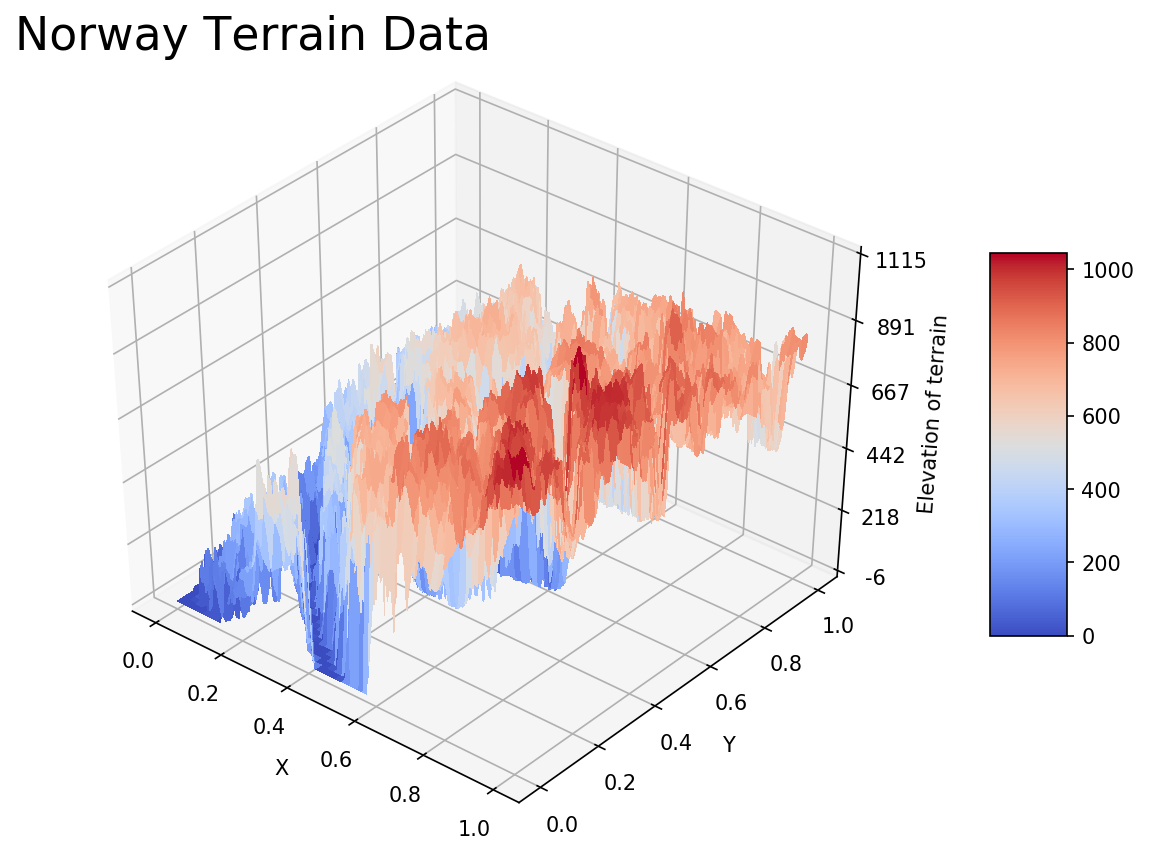
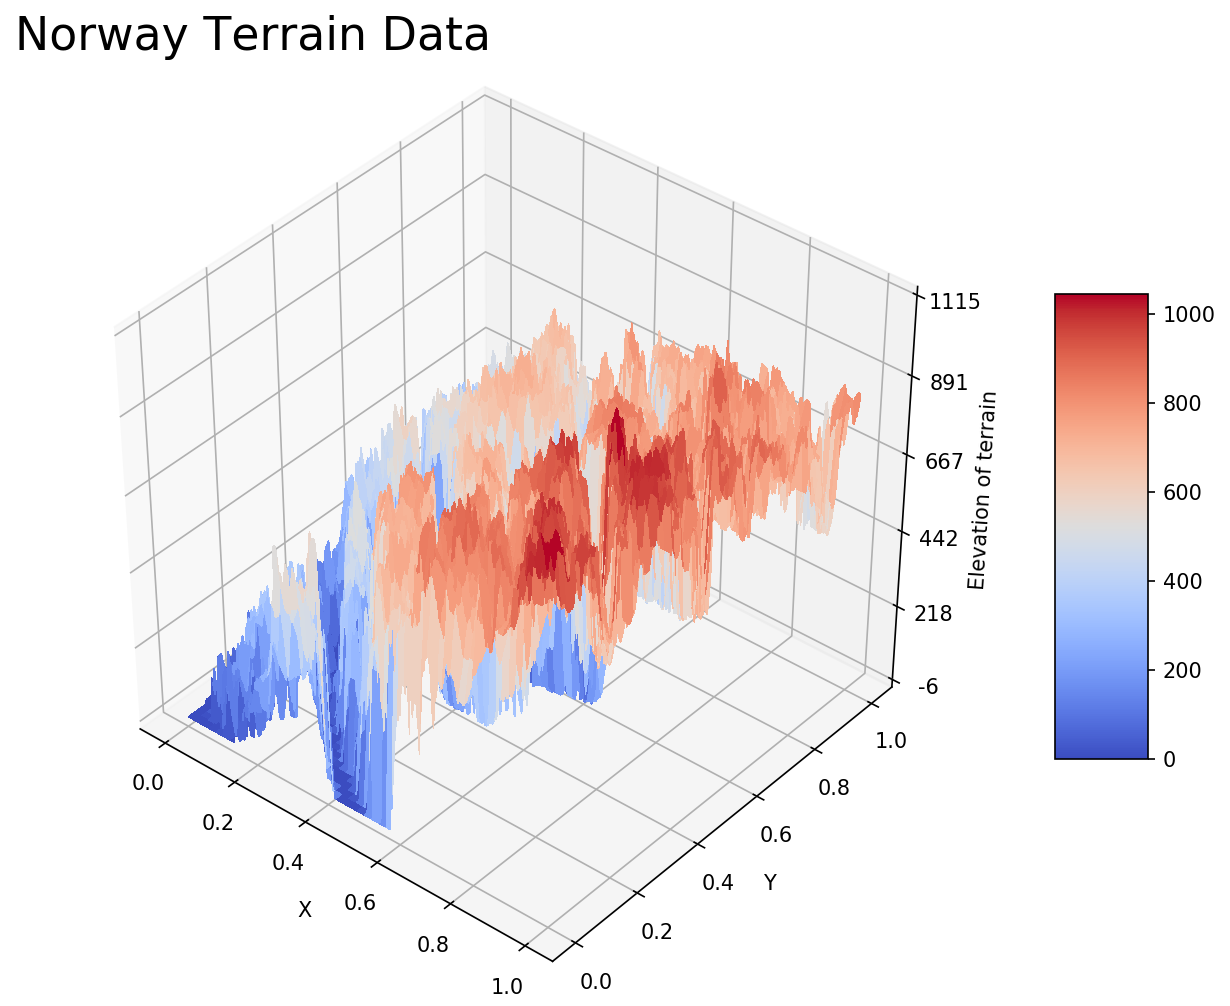
Working on terrain

diff --git a/Project1/g)AnalysisOfTerrain.py b/Project1/g)AnalysisOfTerrain.py
@@ -1,0 +1,167 @@
+import numpy as np
+from random import random, seed
+import matplotlib.pyplot as plt
+
+from RegLib.HelperFunctions import plot_3d_graph
+from PROJECT_SETUP import TERRAIN_PATH, SAVE_FIG, SEED
+from RegLib.SamplingMethod import SamplingMethod
+from RegLib.RegressionMethod import RegressionType
+from RegLib.BootstrapSampling import BootstrapSampling
+from RegLib.CrossValidationKFold import CrossValidationKFold
+from RegLib.HelperFunctions import mupltiple_line_plot, plot_bias_variance_analysis, create_terrain_data, create_X, plot_values_with_info, progressBar
+
+np.random.seed(SEED)
+
+# g) OLS, Ridge and Lasso regression with resampling 
+
+#region Alpha values for Lasso and Ridge
+
+# N = 100
+# p = 7
+
+# alphas = [0.0, 0.000001, 0.00001, 0.0001, 0.001, 0.01, 0.1, 1.0, 10.0, 100.0, 1000.0]
+# l = len(alphas)
+
+# trials = 1000
+# sample_count = N
+
+# kfolds = 5
+
+# x, y, z = create_terrain_data(N, TERRAIN_PATH)
+# perm_index = np.random.permutation(len(z))
+
+# mse_boot = np.zeros(l); mse_kfold = np.zeros(l); mse_boot_train = np.zeros(l); mse_kfold_train = np.zeros(l); 
+# bias_boot = np.zeros(l); var_boot = np.zeros(l)
+
+# for i in range(len(alphas)):
+#     progressBar(i + 1, l)
+#     X = create_X(x, y, p, debug = False)
+
+#     crossval = CrossValidationKFold(kfolds).train_and_test(X, z, perm_index = perm_index, model_type = RegressionType.Lasso, alpha = alphas[i])
+#     boot = BootstrapSampling(trials, sample_count).train_and_test(X, z, perm_index = perm_index, model_type = RegressionType.Lasso, alpha = alphas[i])
+
+#     mse_kfold[i] = crossval.mse
+#     mse_kfold_train[i] = crossval.mse_train
+#     mse_boot[i] = boot.mse
+#     mse_boot_train[i] = boot.mse_train
+#     bias_boot[i] = boot.bias
+#     var_boot[i] = boot.var
+
+# values_to_plot = {
+#     "Bootstrap Test": mse_boot,
+#     "Cross-validation Test": mse_kfold,
+#     "Bootstrap Train": mse_boot_train,
+#     "Cross-validation Train": mse_kfold_train,
+# }
+
+# info_to_add = {
+#     "N: ": N,
+#     "Trials: ": trials,
+#     "Kfolds: ": kfolds, 
+#     "Regression": " Lasso",
+# }
+
+# plot_values_with_info(alphas, values_to_plot, title = "g)TerrainLassoAlphaBootVsCross", xlabel = "λ values", ylabel = "Prediction Error", info_to_add = info_to_add, xscale = "log", save_fig=SAVE_FIG)
+
+
+#endregion
+
+#region Bias-variance trade-off
+
+N = 100
+p = 10
+trials = 10000
+sample_count = N
+kfolds = 5
+alpha = 10
+x, y, z = create_terrain_data(N, TERRAIN_PATH)
+perm_index = np.random.permutation(len(z))
+
+polydegree = np.zeros(p); r2_boot = np.zeros(p); mse_boot = np.zeros(p); bias_boot = np.zeros(p); var_boot = np.zeros(p)
+r2_crossval = np.zeros(p); mse_crossval = np.zeros(p); bias_crossval = np.zeros(p); var_crossval = np.zeros(p)
+
+r2_boot_ridge = np.zeros(p); mse_boot_ridge = np.zeros(p); bias_boot_ridge = np.zeros(p); var_boot_ridge = np.zeros(p)
+r2_crossval_ridge = np.zeros(p); mse_crossval_ridge = np.zeros(p); bias_crossval_ridge = np.zeros(p); var_crossval_ridge = np.zeros(p)
+
+r2_boot_lasso = np.zeros(p); mse_boot_lasso = np.zeros(p); bias_boot_lasso = np.zeros(p); var_boot_lasso = np.zeros(p)
+r2_crossval_lasso = np.zeros(p); mse_crossval_lasso = np.zeros(p); bias_crossval_lasso = np.zeros(p); var_crossval_lasso = np.zeros(p)
+
+for degree in range(p):
+    progressBar(degree + 1, p)
+
+    polydegree[degree] = degree + 1
+
+    X = create_X(x, y, degree, debug = False)
+    boot = BootstrapSampling(trials, sample_count).train_and_test(X, z, perm_index = perm_index, model_type = RegressionType.OLS)
+    crossval = CrossValidationKFold(kfolds).train_and_test(X, z, perm_index = perm_index, model_type = RegressionType.OLS)
+
+    boot_ridge = BootstrapSampling(trials, sample_count).train_and_test(X, z, perm_index = perm_index, model_type = RegressionType.Ridge, alpha=alpha)
+    crossval_ridge = CrossValidationKFold(kfolds).train_and_test(X, z, perm_index = perm_index, model_type = RegressionType.Ridge, alpha=alpha)
+
+    boot_lasso = BootstrapSampling(trials, sample_count).train_and_test(X, z, perm_index = perm_index, model_type = RegressionType.Lasso, alpha=alpha)
+    crossval_lasso = CrossValidationKFold(kfolds).train_and_test(X, z, perm_index = perm_index, model_type = RegressionType.Lasso, alpha=alpha)
+
+    r2_boot[degree] = boot.r2; mse_boot[degree] = boot.mse; bias_boot[degree] = boot.bias; var_boot[degree] = boot.var; 
+    r2_crossval[degree] = crossval.r2; mse_crossval[degree] = crossval.mse; bias_crossval[degree] = crossval.bias; var_crossval[degree] = crossval.var; 
+
+    r2_boot_ridge[degree] = boot_ridge.r2; mse_boot_ridge[degree] = boot_ridge.mse; bias_boot_ridge[degree] = boot_ridge.bias; var_boot_ridge[degree] = boot_ridge.var; 
+    r2_crossval_ridge[degree] = crossval_ridge.r2; mse_crossval_ridge[degree] = crossval_ridge.mse; bias_crossval_ridge[degree] = crossval_ridge.bias; var_crossval_ridge[degree] = crossval_ridge.var; 
+
+    r2_boot_lasso[degree] = boot_lasso.r2; mse_boot_lasso[degree] = boot_lasso.mse; bias_boot_lasso[degree] = boot_lasso.bias; var_boot_lasso[degree] = boot_lasso.var; 
+    r2_crossval_lasso[degree] = crossval_lasso.r2; mse_crossval_lasso[degree] = crossval_lasso.mse; bias_crossval_lasso[degree] = crossval_lasso.bias; var_crossval_lasso[degree] = crossval_lasso.var; 
+
+
+values_to_plot_boot = {
+    "Variance": var_boot,
+    "MSE": mse_boot,
+    "Bias^2": bias_boot,
+}
+
+values_to_plot_crossval = {
+    "Variance": var_crossval,
+    "MSE": mse_crossval,
+    "Bias^2": bias_crossval,
+}
+
+values_to_plot_boot_ridge = {
+    "Variance": var_boot_ridge,
+    "MSE": mse_boot_ridge,
+    "Bias^2": bias_boot_ridge,
+}
+
+values_to_plot_crossval_ridge = {
+    "Variance": var_crossval_ridge,
+    "MSE": mse_crossval_ridge,
+    "Bias^2": bias_crossval_ridge,
+}
+
+values_to_plot_boot_lasso = {
+    "Variance": var_boot_lasso,
+    "MSE": mse_boot_lasso,
+    "Bias^2": bias_boot_lasso,
+}
+
+values_to_plot_crossval_lasso = {
+    "Variance": var_crossval_lasso,
+    "MSE": mse_crossval_lasso,
+    "Bias^2": bias_crossval_lasso,
+}
+
+info_to_add = {
+    "N: ": N,
+    "Trials: ": trials,
+    "Kfolds: ": kfolds,
+    "Alpha: ": alpha,
+}
+
+values_to_plot = [values_to_plot_boot, values_to_plot_crossval, values_to_plot_boot_ridge, values_to_plot_crossval_ridge, values_to_plot_boot_lasso, values_to_plot_crossval_lasso]
+plot_labels = ["OLS Bootstrap", "OLS Cross Validation", "Ridge Bootstrap", "Ridge Cross Validation", "Lasso Bootstrap", "Lasso Cross Validation"]
+ylim = [0, 10000]
+
+mupltiple_line_plot(polydegree, values_to_plot, plot_labels, "Terrain Bias Variance Analysis", info_to_add = info_to_add, xlabel = "Polynomial degree", ylabel = "Prediction Error", ylim = ylim, xscale = "linear", save_fig = SAVE_FIG)
+#plot_bias_variance_analysis(polydegree, values_to_plot, title = "g)TerrainBiasVarTradeoffOLS", info_to_add = info_to_add, save_fig = SAVE_FIG)
+
+#plot_values_with_info(polydegree, values_to_plot, title = "TestTrainErrorBootstrap", xlabel = "Polynomial Degree", ylabel = "Prediction Error", info_to_add = info_to_add, save_fig=False)
+
+
+# #endregion

diff --git a/Project1/RegLib/HelperFunctions.py b/Project1/RegLib/HelperFunctions.py
@@ -10,6 +10,8 @@ from imageio import imread
 import seaborn as sns
 import os, sys
 import warnings
+from scipy.signal import savgol_filter
+
 warnings.filterwarnings("ignore", message="Numba")
 
 # Credit to Jon Dahl and Michael
@@ -64,10 +66,10 @@ def create_terrain_data(N = 1000, path = 'DataFiles/SRTM_data_Norway_2.tif'):
     y = np.linspace(0,1, np.shape(terrain)[1])
     x_mesh, y_mesh = np.meshgrid(x,y)
 
-    predictors_input = np.c_[x_mesh.ravel(), y_mesh.ravel()]
+    terrain = savgol_filter(terrain, 77, 2)
     z = terrain.ravel()
-    return x_mesh, y_mesh, z, predictors_input
 
+    return x_mesh, y_mesh, z
 
 def plot_3d_graph(x, y, z, title, z_title = "Z", dpi = 150, formatter = '%.02f', z_line_ticks = 10, view_azim = -35, set_limit = True, save_fig = False):
     fig = plt.figure(dpi=dpi)
@@ -107,7 +109,8 @@ def confidence_interval(X, z, beta, noise_strength, N, percentile = 1.95, title 
     plt.figtext(0.1, -0.1, "Noise Strength: " + str(noise_strength) + "\nNumber of samples: " + str(N), ha="left", fontsize=7)
     if save_fig:
         save_figure(title + str(N) + str(noise_strength))
-    plt.show()
+    else: 
+        plt.show()
     plt.cla()
 
 def parse_info_for_plot(info_to_add):
@@ -165,6 +168,54 @@ def plot_bias_variance_analysis(polydegree, values_to_plot, title = "BiasVarTrad
 
     if save_fig:
         save_figure(title + title_info)
+    else:
+        plt.show()
+    plt.cla()
+
+def mupltiple_line_plot(polydegree, values_to_plot, plot_labels, subtitle, info_to_add = {}, xlabel = "Polynomial degree", ylabel = "Prediction Error", ylim = [0, 100], xscale = "linear", save_fig = False):
+    # Initialize the figure
+    plt.style.use('seaborn-darkgrid')
+    # create a color palette
+    palette = plt.get_cmap('Set1')
+
+    num_of_plots = len(values_to_plot)
+    assert len(plot_labels) == num_of_plots, "plot_labels != values_to_plot"
+
+    for plot_num in range(0, num_of_plots):
+        # Find the right spot on the plot
+        plt.subplot(np.ceil(num_of_plots/2), 2, plot_num+1)
+        
+        for val in values_to_plot[plot_num]:
+            # Plot the lineplot
+            plt.plot(polydegree, values_to_plot[plot_num][val], label=val)
+
+        if(plot_num == 1):
+            plt.legend(loc='center left', bbox_to_anchor=(1, 0.5))
+
+        plt.ylim(ylim[0], ylim[1])
+        ax = plt.gca()
+        # Not ticks everywhere
+        if plot_num in range(num_of_plots) :
+            ax.axes.xaxis.set_ticklabels([])
+        if plot_num not in range(0, num_of_plots, 2):
+            ax.axes.yaxis.set_ticklabels([])
+        plt.xscale(xscale)
+
+        # Add title
+        plt.title(plot_labels[plot_num], loc='left', fontsize=12, fontweight=0, color=palette(plot_num) )
+    
+    # general title
+    plt.suptitle(subtitle, fontsize=14, fontweight=0, color='black', style='italic', y=1.02)
+    plt.figtext(0.5, 0.02, xlabel, ha='center', va='center')
+    plt.figtext(0.02, 0.5, ylabel, ha='center', va='center', rotation='vertical')
+    plt.tight_layout()
+
+    info_str, title_info = parse_info_for_plot(info_to_add)
+    if info_str != "":
+        plt.figtext(0.1, -0.1, info_str, ha="left", fontsize=7)
+
+    if save_fig:
+        save_figure(subtitle + title_info)
     else:
         plt.show()
     plt.cla()

diff --git a/Project1/PROJECT_SETUP.py b/Project1/PROJECT_SETUP.py
@@ -4,4 +4,4 @@ DATA_ID = "DataFiles/"
 TERRAIN_PATH = 'DataFiles/SRTM_data_Norway_2.tif'
 
 SEED = 2018
-SAVE_FIG = False
+SAVE_FIG = True
